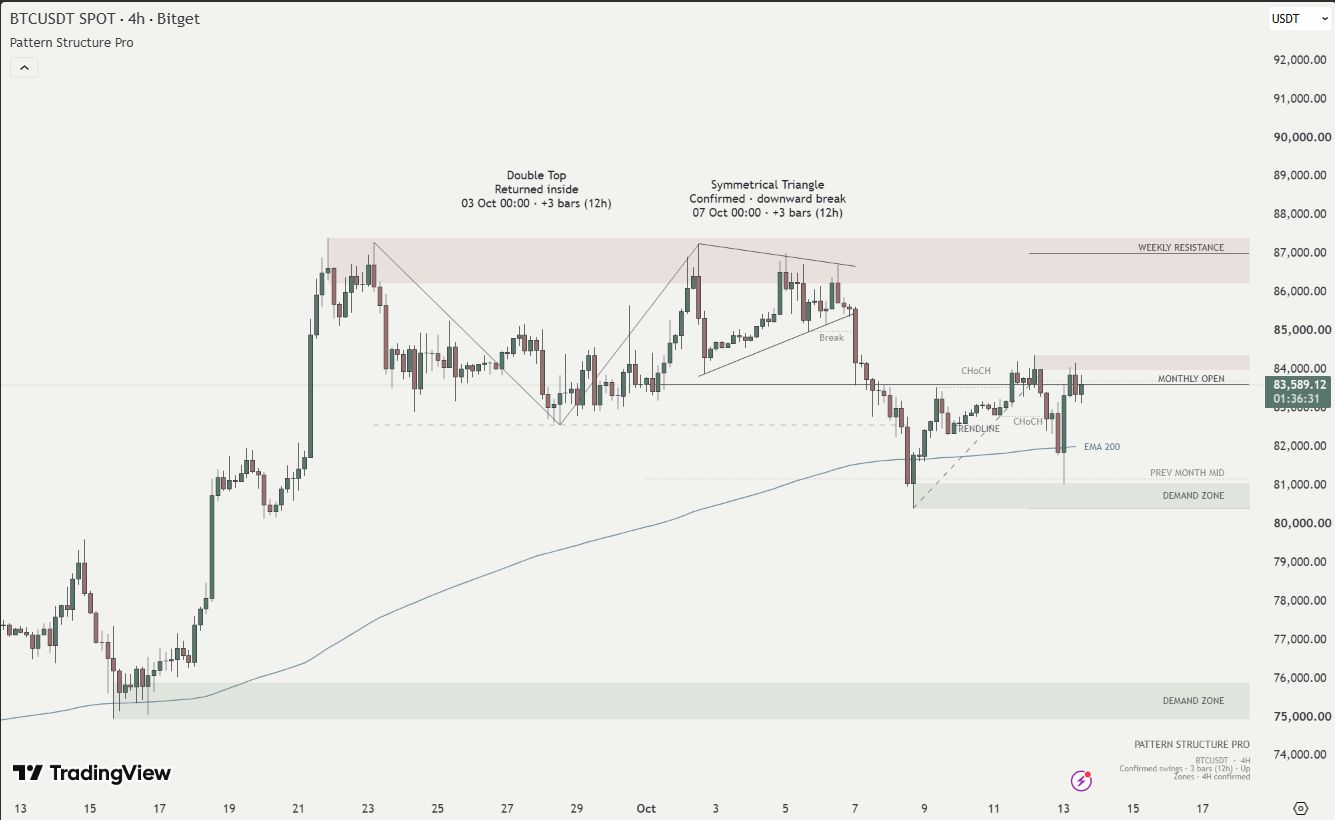
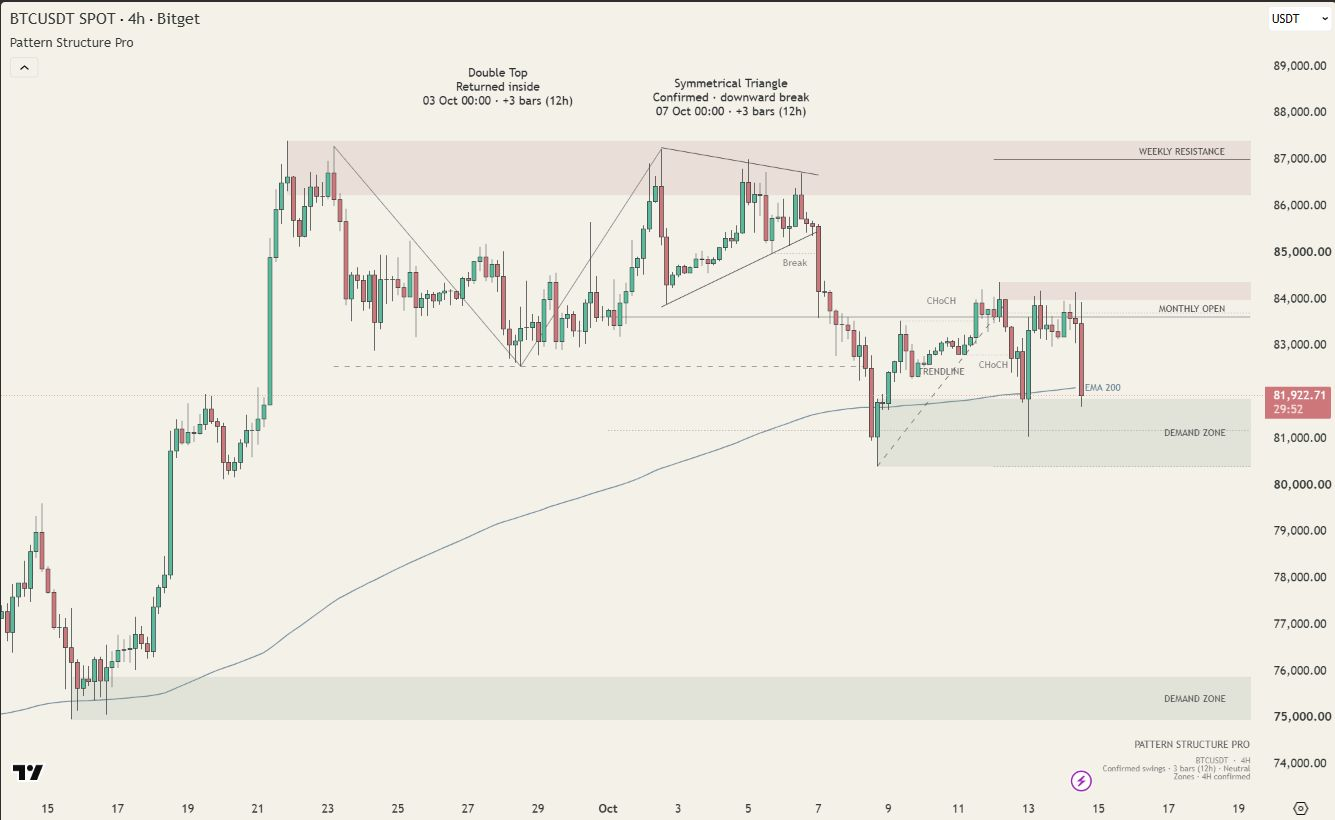
Link the public TradingView release and refresh the Analysis example

diff --git a/README.md b/README.md
@@ -2,6 +2,8 @@
 
 Pattern Structure Pro is a TradingView Pine Script v6 indicator that brings chart patterns, swing structure, and price context into one considered layout. It supports standard **1H, 2H, 4H, and 1D** candlestick charts, with **Analysis** as the primary view for examining structure and a clean **Stories** view for sharing it.
 
+[Use Pattern Structure Pro on TradingView](https://www.tradingview.com/script/k8GKqEKW-Pattern-Structure-Pro/)
+
 ## Overview
 
 ![PSP Analysis view on BTCUSDT 4H](assets/screenshots/psp-analysis.jpg)
@@ -59,11 +61,11 @@ Detection and state transitions run on closed bars. Pattern geometry is stored w
 
 **Closed-bar processing does not mean an annotation was available at its historical anchor.** A newly detected pattern is drawn back over the candles that formed it, after swing confirmation. Analysis captions show the final anchor's detection time and confirmation delay. The most recent same-side swing can be replaced before a later opposite swing arrives, and the selected drawings can change as new data arrives.
 
-PSP redraws the current selection rather than retaining every historical drawing. Scrolling back alone does not reconstruct what was visible at that earlier moment. Data-feed corrections, changed settings, and different timeframes can change a recalculated chart. 
+PSP redraws the current selection rather than retaining every historical drawing. Scrolling back alone does not reconstruct what was visible at that earlier moment. Data-feed corrections, changed settings, and different timeframes can change a recalculated chart.
 
 ## Screenshots
 
-The images were captured on **13 October 2026**, directly in TradingView, using the production source on BITGET:BTCUSDT. Browser screenshot clipping removes surrounding panels and toolbars; candles, price axes, labels, and drawings are unchanged. No patterns were manually added. Screenshots reflect the shared 4H zone version.
+The images were captured on **13–14 October 2026**, directly in TradingView, using the production source on BITGET:BTCUSDT. Browser screenshot clipping removes surrounding panels and toolbars; candles, price axes, labels, and drawings are unchanged. No patterns were manually added. Screenshots reflect the shared 4H zone version. The 4H Analysis image was refreshed on 14 October using a warm off-white background and PSP as the only visible indicator.
 
 ### Stories
 
@@ -146,4 +148,4 @@ PSP supports technical analysis and does not provide financial advice. Trading i
 
 ## License
 
-[MIT License](LICENSE). Copyright (c) 2026 builtbyuba.
+[MIT License](LICENSE). Copyright (c) 2026 builtbyuba. Contributions and suggestions are welcome.
